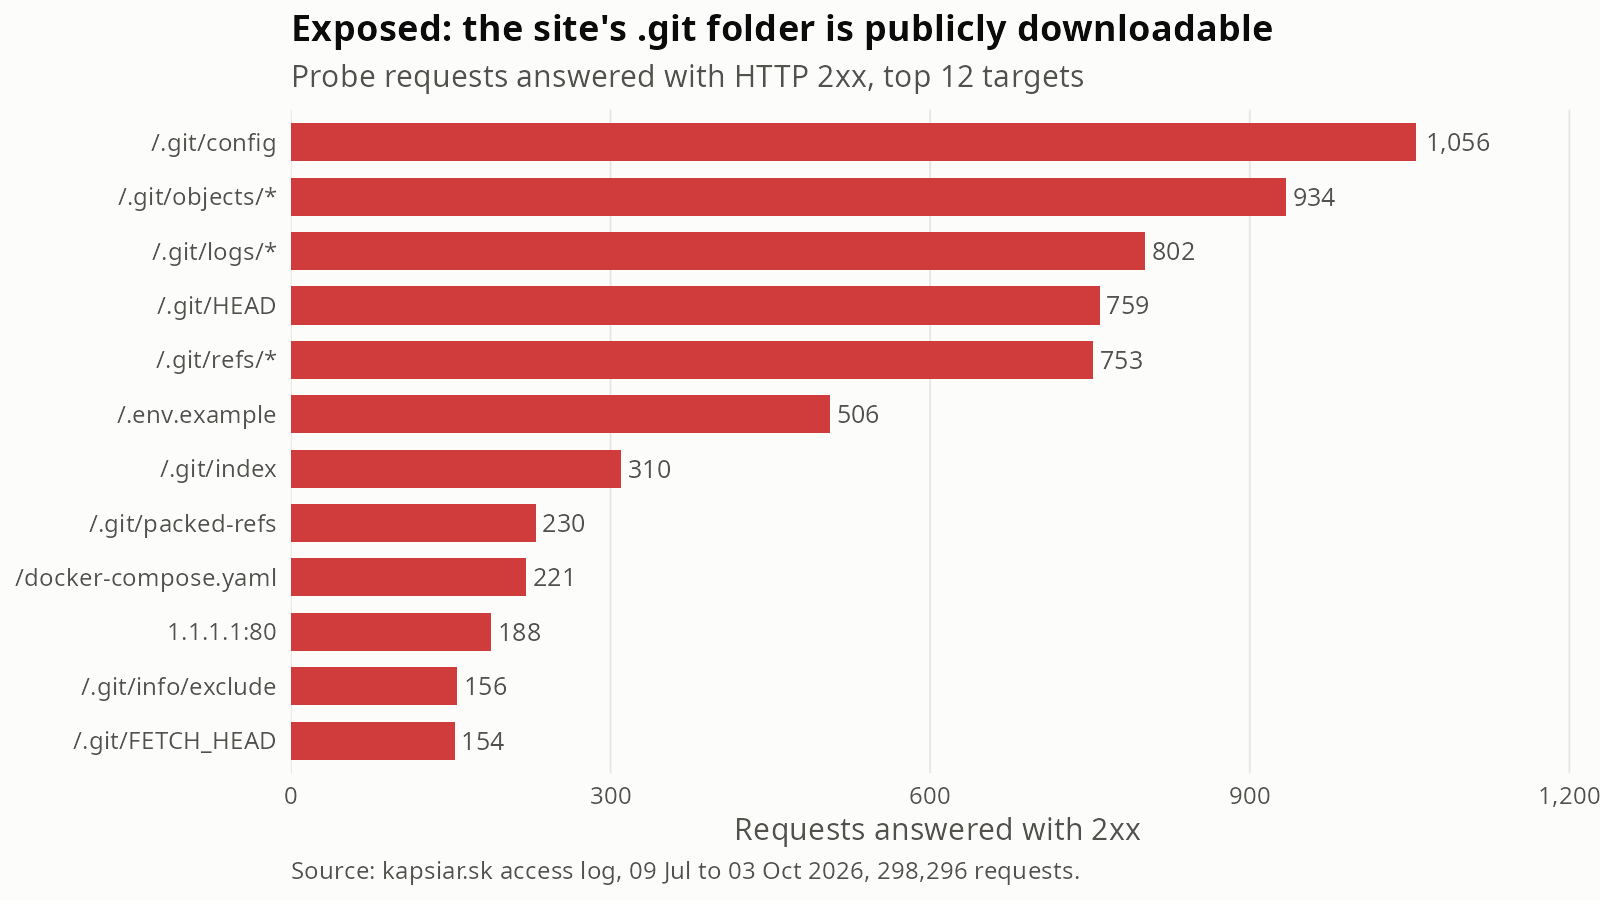
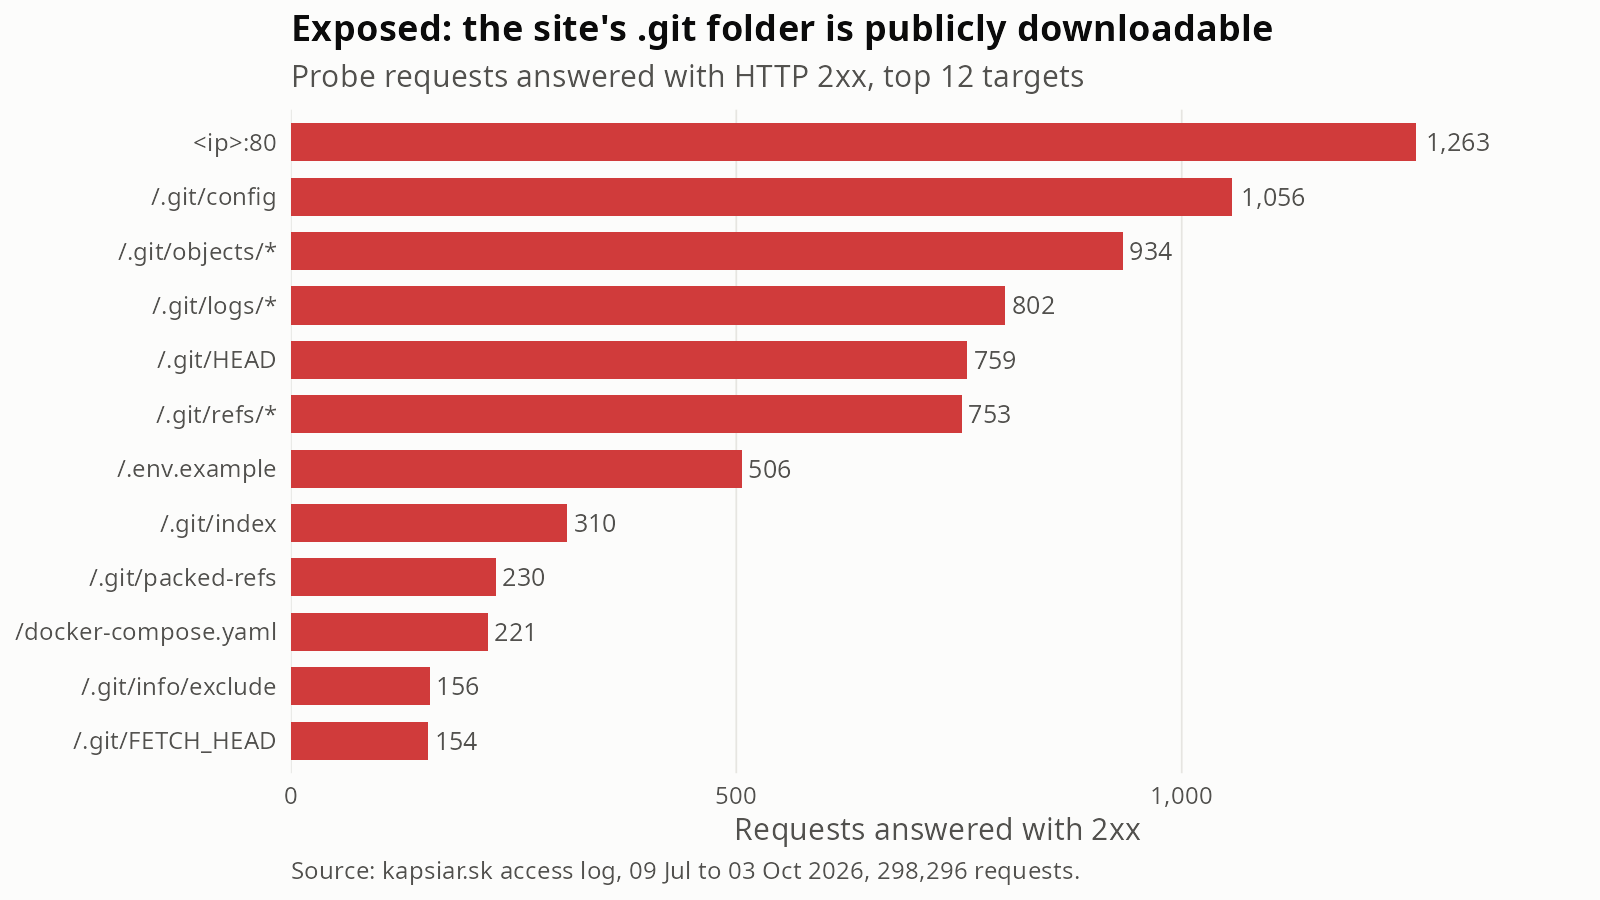
Document IP anonymisation, test the sample for IPs, mask IPs in the summary
- docs/anonymisation.md describes the hashing, the salt and what is
  dropped or masked (KAP-51)
- test that the committed sample has no IP addresses outside user agents
- mask IPv4 addresses in proxy-probe targets of the first-look summary
- keep the KAP-68 fix note in the generated summary

diff --git a/docs/anonymisation.md b/docs/anonymisation.md
@@ -1,0 +1,48 @@
+# IP anonymisation
+
+An IP address is personal data under the GDPR, and the course rules forbid identifiable records in AI tools. So anonymisation is the first processing step: nothing downstream (classification, aggregation, the dashboard, the committed sample) ever sees a real client address.
+
+## What happens to each field
+
+| Field | Treatment | Code |
+|---|---|---|
+| `ip` (client address) | Replaced by `ip_hash`: the first 16 hex characters of HMAC-SHA256(salt, ip) | `hash_ip()` in `R/anonymise.R` |
+| `peer_ip` (connecting address, extended log format) | Used to derive `via_cloudflare`, then dropped | `anonymise_requests()` |
+| `ident`, `user` | Dropped | `anonymise_requests()` |
+| `query`, `request` | Not in the committed sample (query strings can carry personal data) | `data-raw/import_logs.R` |
+| `referer` | Cut down to its host in the sample | `data-raw/import_logs.R` |
+| IPv4 addresses inside `path` / `referer` | Replaced by `<ip>` in the sample and in the summary tables (proxy probes such as `CONNECT 203.0.113.9:80` put third-party addresses in the path) | `data-raw/import_logs.R`, `analysis/first_look.R` |
+
+## Why a salted HMAC
+
+- **Same client, same hash.** Requests can still be grouped per client (needed for the per-client scanner rule and the planned clustering) without storing the address.
+- **Salt, not a plain hash.** The IPv4 space has only about 4 billion addresses, so an unsalted SHA-256 can be reversed by hashing every address. With a secret salt, a hash cannot be tested against guesses without the salt.
+- **Truncation to 16 hex characters (64 bits).** Enough to avoid collisions among the few thousand clients in the logs, and it makes the value less usable as a stable identifier outside this project.
+
+## The salt
+
+- Read from the `WTA_SALT` environment variable, or from `~/.config/websitetrafficanalyzer/salt` (mode 0600, 32 random bytes from `openssl::rand_bytes()`); created on first import if missing (`get_salt(create = TRUE)`).
+- Lives outside the repository. Losing it only means hashes from a later run cannot be matched to earlier ones; leaking it weakens the anonymisation, so rotate it if it leaks.
+- Hashes from different salts are not comparable. Re-import everything with the same salt.
+
+## Fields derived before hashing
+
+Anything that needs the real address must be computed before `ip` is dropped, inside `anonymise_requests()`:
+
+- `via_cloudflare`: whether the connecting address is in a Cloudflare range (`in_cloudflare()`, `R/cloudflare.R`). Done.
+- Country and ASN: planned, see KAP-72. They must be added in this step, never later.
+
+## Where raw data may live
+
+- `data/raw/` (raw exports) and `data/processed/` (full anonymised tables) are git-ignored.
+- Only `data/sample/requests_sample.csv` (2,000 random anonymised rows) and aggregates may be committed or put on the dashboard. CI and tests run on the committed sample and the synthetic fixture only.
+- Raw log lines and real IPs are never pasted into AI tools or chats.
+
+## Checks
+
+- `tests/testthat/test-anonymise.R`: deterministic hashes that depend on the salt; empty salt refused; output contains no raw IP; `peer_ip` and `ident`/`user` removed; the committed sample contains no IP address outside the user-agent column.
+
+## Limits
+
+- Pseudonymised data is still personal data under the GDPR as long as the salt exists. Destroying the salt after the final import would make the data effectively anonymous, at the cost of not being able to re-link.
+- Timestamps, user agents and paths can still single out a client in combination with outside knowledge; this is why only a sample and aggregates leave the machine.

diff --git a/analysis/first_look_summary.md b/analysis/first_look_summary.md
@@ -1,6 +1,6 @@
 # First look: kapsiar.sk access logs
 
-Generated by `analysis/first_look.R` on 2026-10-05. Aggregates only.
+Generated by `analysis/first_look.R` on 2026-10-13. Aggregates only.
 
 > Update 2026-10-07: the exposed `.git` directory described below has been fixed. Apache now serves only `public/`, so these probes return 403. The figures below describe the period before the fix.
 
@@ -44,6 +44,7 @@ Generated by `analysis/first_look.R` on 2026-10-05. Aggregates only.
 
 | probe_family | target | requests | clients | bytes |
 |---|---|---|---|---|
+| proxy | <ip>:80 | 1,263 | 41 | 3,200,659 |
 | vcs | /.git/config | 1,056 | 545 | 596,360 |
 | vcs | /.git/objects/* | 934 | 283 | 9,051,217,768 |
 | vcs | /.git/logs/* | 802 | 279 | 3,121,362 |
@@ -53,7 +54,6 @@ Generated by `analysis/first_look.R` on 2026-10-05. Aggregates only.
 | vcs | /.git/index | 310 | 172 | 7,413,661 |
 | vcs | /.git/packed-refs | 230 | 157 | 96,313 |
 | config_leak | /docker-compose.yaml | 221 | 165 | 134,194 |
-| proxy | 1.1.1.1:80 | 188 | 7 | 473,384 |
 | vcs | /.git/info/exclude | 156 | 115 | 75,019 |
 | vcs | /.git/FETCH_HEAD | 154 | 119 | 111,723 |
 | vcs | /.git/info/refs | 143 | 105 | 91,765 |
@@ -61,9 +61,9 @@ Generated by `analysis/first_look.R` on 2026-10-05. Aggregates only.
 | vcs | /.git/description | 115 | 93 | 36,446 |
 | vcs | /.gitignore | 109 | 89 | 27,871 |
 | vcs | /.git/hooks/pre-receive.sample | 77 | 64 | 60,821 |
-| proxy | 130.12.182.227:80 | 75 | 1 | 190,275 |
 | vcs | /.git/hooks/pre-push.sample | 75 | 66 | 121,542 |
 | vcs | /.git/hooks/pre-commit.sample | 74 | 64 | 139,814 |
+| vcs | /.git/hooks/update.sample | 74 | 62 | 288,323 |
 
 ## Most visited pages by humans
 
